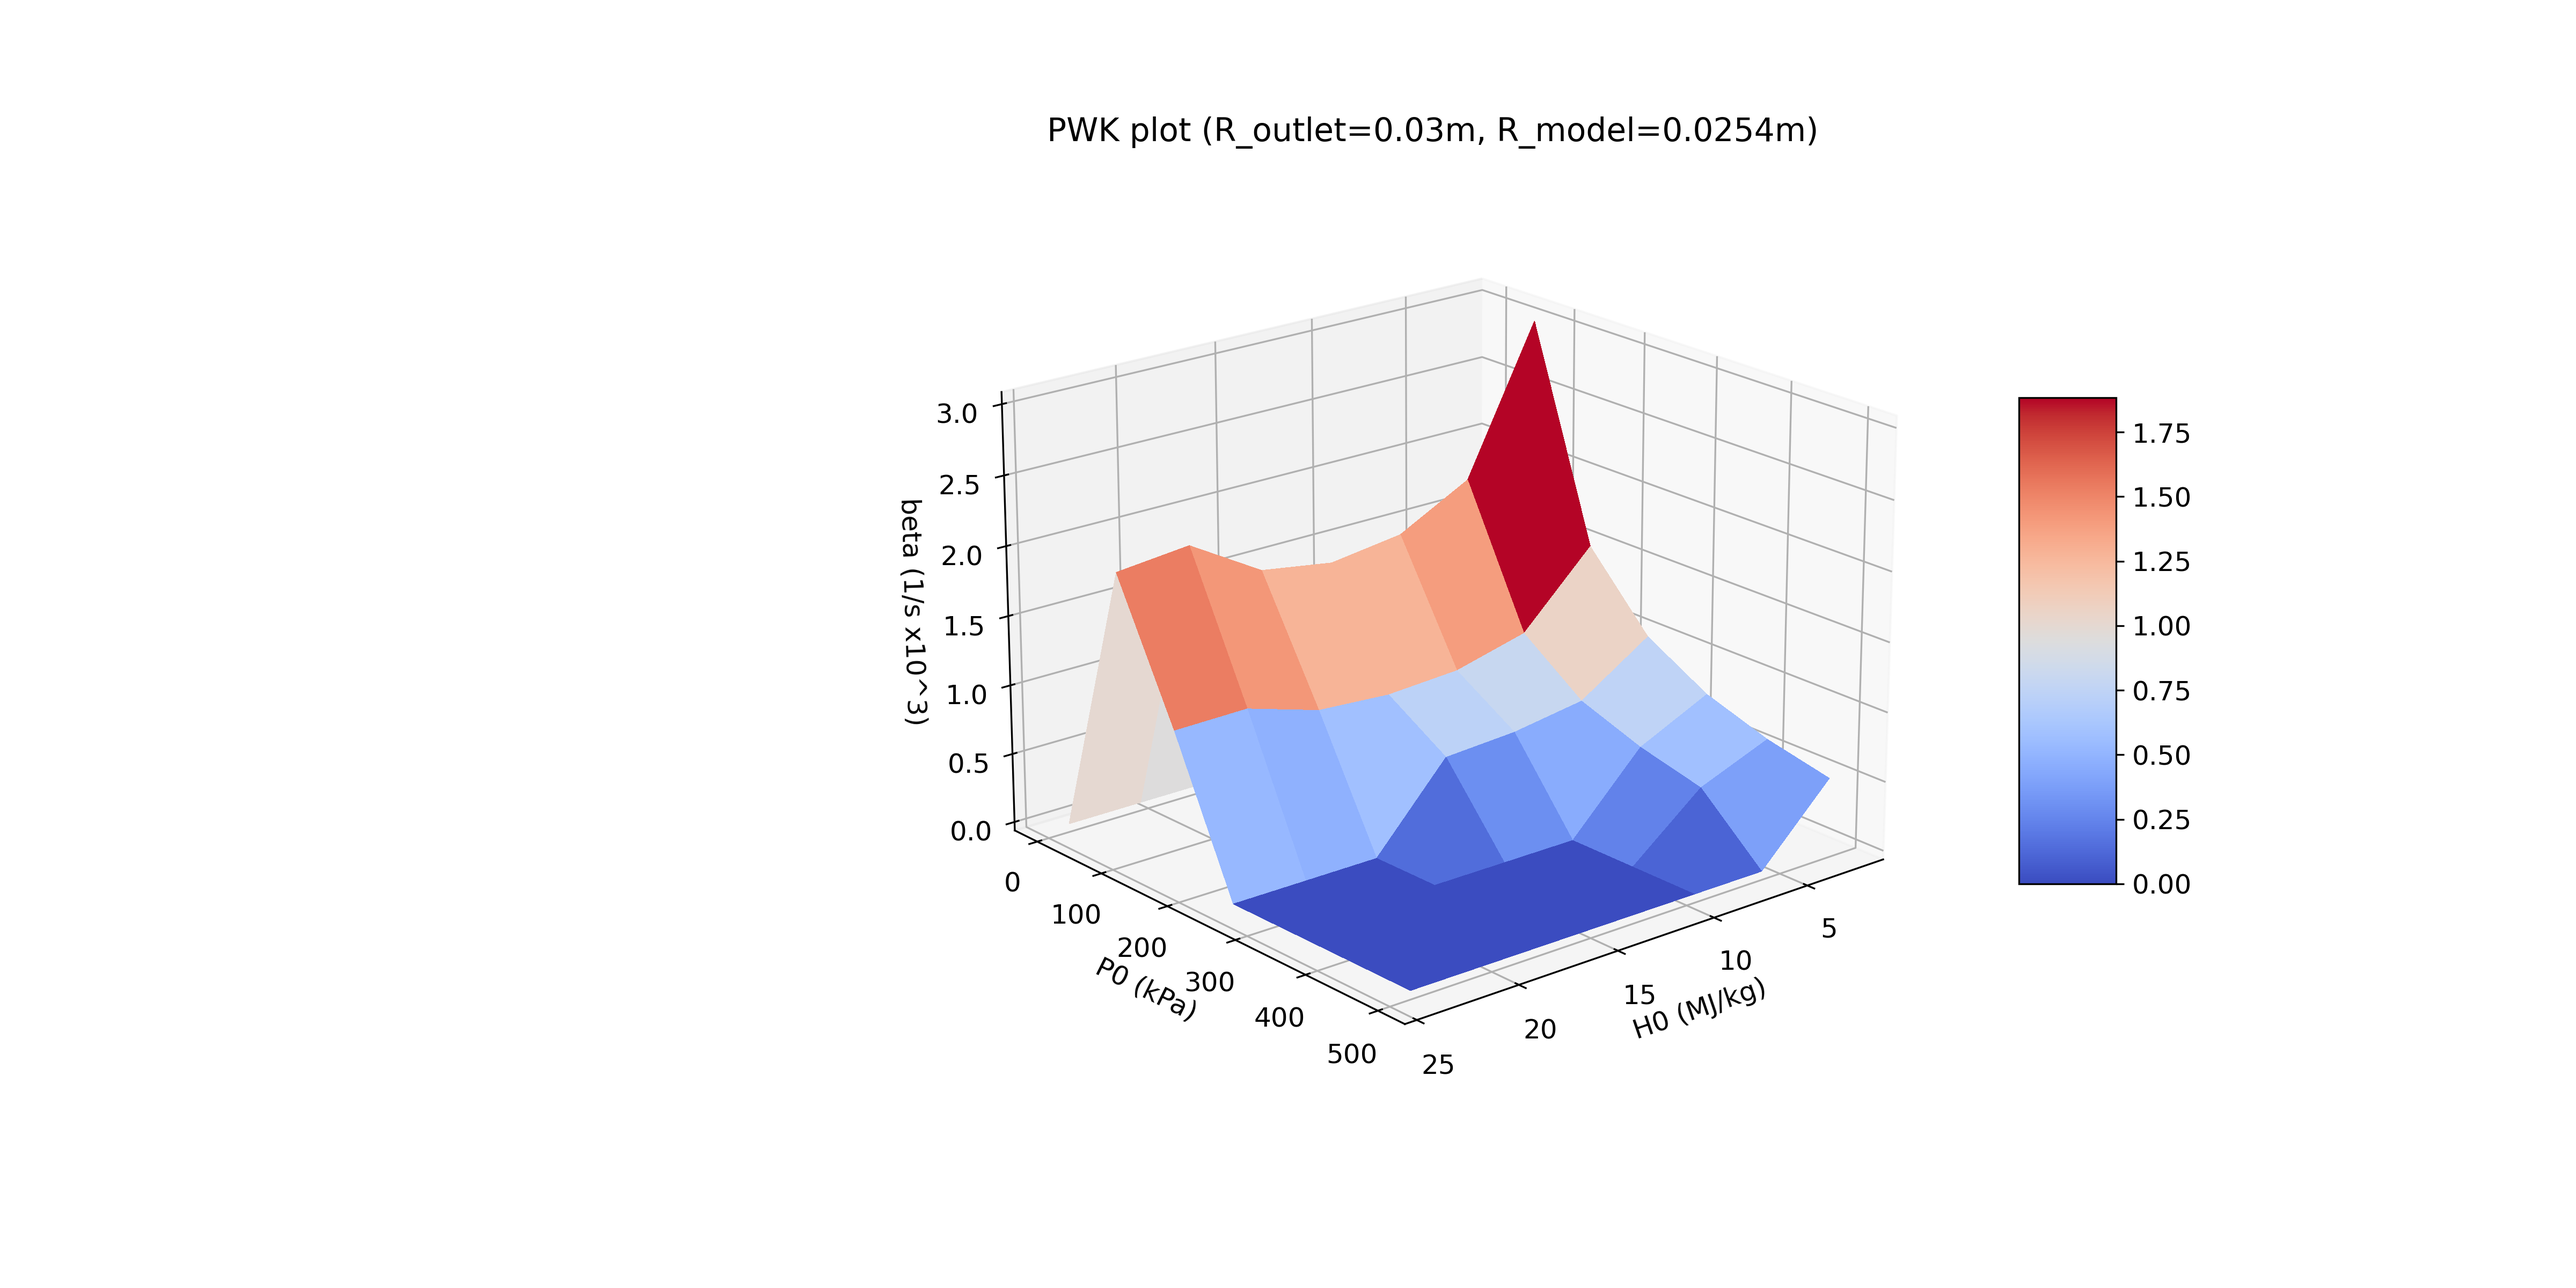
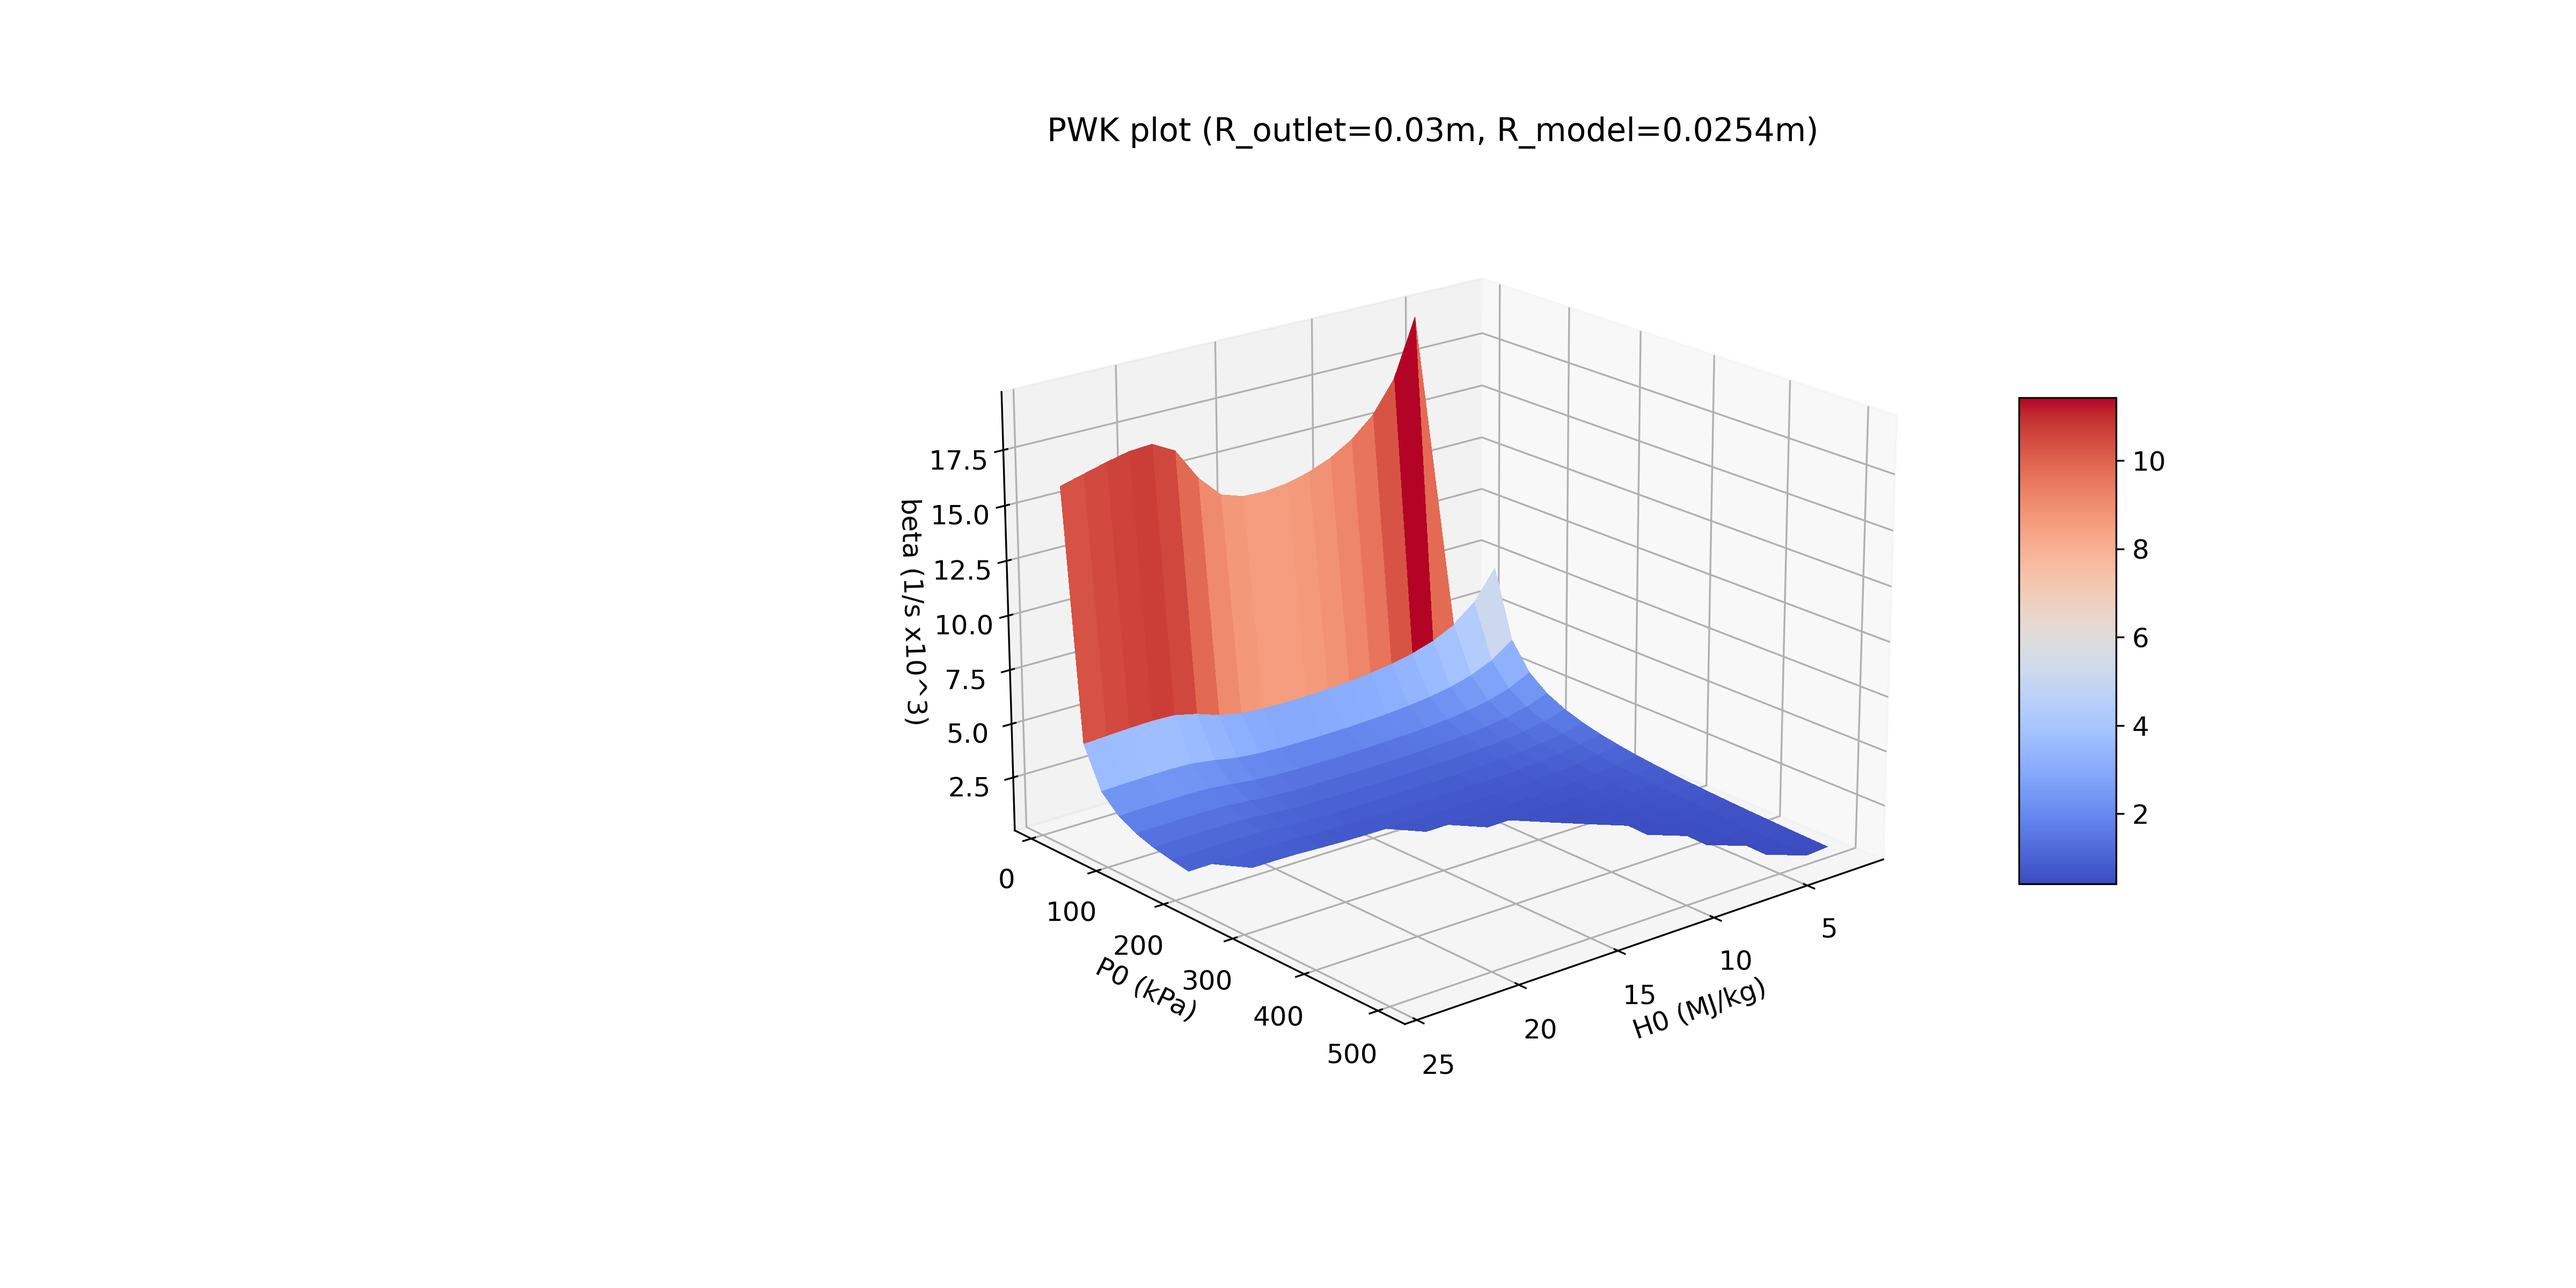
backup smooth interpolation

diff --git a/sub&supersonic_nozzle.py b/sub&supersonic_nozzle.py
@@ -11,6 +11,7 @@ import numpy as np
 import cantera as ct
 import sympy as sympy
 import scipy as scipy
+from scipy.interpolate import griddata
 # from mpl_toolkits import Axes3D
 from scipy.interpolate import RectBivariateSpline
 from sympy import symbols, Eq, solve
@@ -221,7 +222,7 @@ def all_in_one_matching(mdot,P_arc,P0,R_jet,R_model):
         print(data)
 
 def nice_wireframe(H_add,P0,beta_square):
-    for iter in range(10):
+    for iter in range(len(beta_square)):
         for i in range(len(H_add)):
             for j in range(len(H_add)):
                 if j == 0:
@@ -244,8 +245,8 @@ def nice_wireframe(H_add,P0,beta_square):
                             H_add[i][j] = 1.001*H_add[i][j-1]
                             P0[i][j] = 1.001*P0[i][j-1]
                             
-                
-   
+    print("nice wireframe test \\\\\\\\\\\\\\\\\\\\\5")            
+    print(H_add)
     print("done")
 
 def beta_curve_PWK(mdot_range,P_arc,P0_range,R_jet,R_model,resolution):
@@ -285,13 +286,13 @@ def beta_curve_PWK(mdot_range,P_arc,P0_range,R_jet,R_model,resolution):
                 beta_square[count1][count2]=beta
 
             except:
-                beta_square[count1][count2]=0
+                beta_square[count1][count2]=np.nan
             number_done = number_done + 1
             print(str(100*number_done/number_of_points)+"% through ground calcs")
     
     P0, mdot =np.meshgrid(P0_linspace,mdot_linspace)
     H_add = (0.5*P_arc/mdot)
-    print(P0)
+
     
     
     
@@ -317,6 +318,14 @@ def beta_curve_PWK(mdot_range,P_arc,P0_range,R_jet,R_model,resolution):
     ax.view_init(20,50)
     plt.title("PWK plot (R_outlet="+str(R_jet)+'m, R_model='+str(R_model)+"m)")
     plt.savefig('test.png', dpi=300)
+    ax.view_init(20,50)
+    plt.savefig('test3.png', dpi=300)
+    ax.view_init(0,0)
+    plt.savefig('test4.png', dpi=300)
+    ax.view_init(0,90)
+    plt.savefig('test5.png', dpi=300)
+    ax.view_init(90,0)
+    plt.savefig('test6.png', dpi=300)
 
     return beta_square, P0, H_add, mdot_linspace, P0_linspace, H_add_linspace
 
@@ -377,7 +386,7 @@ def beta_curve_flight(H0_linspace,P0_linspace,R_flight_vehicle,resolution):
 
     
     fig2 = plt.figure("2",figsize=(10,5))
-    # nice_wireframe(H0,P0,beta_square_flight)
+    nice_wireframe(H0,P0,beta_square_flight)
     ax = plt.axes(projection='3d')
     # ax.plot_wireframe(H_add/(10**6), P0/(10**3), beta_square)
     surf = ax.plot_surface(H0/(10**6), P0/(10**3), beta_square_flight/(10**3), cmap=cm.coolwarm, linewidth=1, antialiased=False, rcount=200, ccount=200)
@@ -394,10 +403,10 @@ def beta_curve_flight(H0_linspace,P0_linspace,R_flight_vehicle,resolution):
 
     return beta_square_flight, P0, H0
 
-def ding():
+def ding(frequency):
     import winsound
-    frequency = 3500  # Set Frequency To 2500 Hertz
-    duration = 100  # Set Duration To 1000 ms == 1 second
+    frequency = frequency  # Set Frequency To 2500 Hertz
+    duration = 500  # Set Duration To 1000 ms == 1 second
     winsound.Beep(frequency, duration)
 
 def compare_beta(resolution):
@@ -481,13 +490,6 @@ def bivariate_interpolation(H0_square,P0_square,beta_square,name):
     # for ii in range(len(beta_square)):
             
     
-
-    
-    
-    
-    
-    
-    
     def Extract(lst):
         return [item[0] for item in lst]
     
@@ -528,22 +530,125 @@ def bivariate_interpolation(H0_square,P0_square,beta_square,name):
     plt.show()
     
 
+def bivariate_interpolation2(H0_square,P0_square,beta_square,name):
+    
+    def Extract(lst):
+        return [item[0] for item in lst]
+    
+    # P0_1d = P0_square[0]
+    # H0_1d = Extract(H0_square)
+    P0_1d = P0_square[0]
+    H0_1d = Extract(H0_square)
+    
+    func =  scipy.interpolate.interp2d(P0_square, H0_square, beta_square, kind='cubic', copy=True, bounds_error=False, fill_value=1)
+    
+    P0_1d_new = np.arange(600,500000,(500000-600)/100)
+    H0_1d_new = np.arange(2.4*10**6,25*10**6, (25*10**6-2.4*10**6)/100)
+    
+    P0_2d_new, H0_2d_new = np.meshgrid(P0_1d_new, H0_1d_new)
+    
+    
+    figB = plt.figure("B",figsize=(10,5))
+    ax = plt.axes(projection='3d')
+    print( func(P0_1d_new,H0_1d_new))
+    surf = ax.plot_surface(H0_2d_new,  P0_2d_new, func(P0_1d_new,H0_1d_new), cmap=cm.coolwarm, linewidth=1, antialiased=False, rcount=200, ccount=200)
+    plt.gcf().set_size_inches(16, 8)
+    ax.set_xlabel("H0 (MJ/kg)")
+    ax.set_ylabel("P0 (kPa)")
+    ax.set_zlabel("beta (1/s x10^3)")
+    figB.colorbar(surf, shrink=0.5, aspect=5)
+    plt.title(name)
+    ax.view_init(20,50)
+    plt.savefig('test3.png', dpi=300)
+    ax.view_init(0,0)
+    plt.savefig('test4.png', dpi=300)
+    ax.view_init(0,90)
+    plt.savefig('test5.png', dpi=300)
+    ax.view_init(90,0)
+    plt.savefig('test6.png', dpi=300)
+    
+    print(P0_square)
+    print(H0_square)
+
+    # grid_z = griddata(beta_square, (H0_square, P0_square), method = 'cubic')
+    # ax = plt.axes(projection='3d')
+    # surf = ax.plot_surface(H0_square,  P0_square, grid_interp, cmap=cm.coolwarm, linewidth=1, antialiased=False, rcount=200, ccount=200)
+    # plt.gcf().set_size_inches(16, 8)
+    # ax.set_xlabel("H0 (MJ/kg)")
+    # ax.set_ylabel("P0 (kPa)")
+    # ax.set_zlabel("beta (1/s x10^3)")
+    # plt.title(name)
+    
+def griddata_stack_solution(H0_square,P0_square,beta_square,name):
+    # ref https://stackoverflow.com/questions/34408293/2-d-interpolation-ignoring-nan-values
+    x =   P0_square
+    y =  H0_square
+    z = beta_square
+    
+    x=x.ravel()              #Flat input into 1d vector
+    x=list(x[x!=np.isnan])   #eliminate any NaN
+    y=y.ravel()
+    y=list(y[y!=np.isnan])
+    z=z.ravel()
+    z=list(z[z!=np.isnan])
+       
+    xnew = np.arange(600,500000,(500000-600)/1000)
+    ynew = np.arange(2.4*10**6,25*10**6, (25*10**6-2.4*10**6)/1000)
+    znew = griddata((x, y), z, (xnew[None,:], ynew[:,None]), method='linear')
+
+    
+    figC = plt.figure("C")
+    levels = np.linspace(500, max(z), 15)
+    plt.ylabel('Y', size=15)
+    plt.xlabel('X', size=15)
+    cs = plt.contourf(xnew, ynew, znew, levels=levels, cmap=cm.coolwarm)
+    cbar = plt.colorbar(cs)
+    # cbar.set_label('Z', rotation=90, fontsize=15) # gas fraction
+    plt.show()
+    
+    figD = plt.figure("D")
+    ax = plt.axes(projection='3d')
+
+    X_new, Y_new = np.meshgrid(xnew,ynew)
+
+    surf = ax.plot_surface(X_new/1000,  Y_new/(10**6), znew/1000, cmap=cm.coolwarm, linewidth=1, antialiased=False, rcount=200, ccount=200)
+    ax.set_xlabel("P0 (kPa)")
+    ax.set_ylabel("H0 (MJ/kg)")
+    ax.set_zlabel("beta (1/s x10^3)")
+    figD.colorbar(surf, shrink=0.5, aspect=5)
+    plt.title(name)
+    ax.view_init(20,50)
+    plt.savefig('test3.png', dpi=300)
+    ax.view_init(0,0)
+    plt.savefig('test4.png', dpi=300)
+    ax.view_init(0,90)
+    plt.savefig('test5.png', dpi=300)
+    ax.view_init(90,0)
+    plt.savefig('test6.png', dpi=300)
+
 
 if __name__ == "__main__":
-    print(__doc__)
-    #all_in_one_matching(mdot = 0.5, P_arc = 240*10**3, P0=1*10**3, R_jet=0.5, R_model=0.0245)
-    
-    # uncomment for matching surfaces
-    beta_square_PWK, H0_grid_PWK, P0_grid_PWK, beta_square_flight, H0_grid_flight, P0_grid_flight = compare_beta(resolution=7)
-    
-    
-    
-    
-    #interpolation_of_beta_curve(beta_square_PWK, H0_grid_PWK, P0_grid_PWK, beta_square_flight, H0_grid_flight, P0_grid_flight)
-    
-    # beta_square_PWK, P0_grid_PWK, H0_grid_PWK, mdot_linspace, P0_linspace, H_add_linspace = beta_curve_PWK(mdot_range=[0.005,0.05], P_arc = 240*10**3, P0_range=[600,500*10**3], R_jet = 0.03, R_model = 0.0254, resolution=10)
-    
-    bivariate_interpolation(H0_grid_PWK,P0_grid_PWK,beta_square_PWK,"PWK")
-    bivariate_interpolation(H0_grid_flight,P0_grid_flight,beta_square_flight,"flight")
-    ding()
+    # try:
+        print(__doc__)
+        #all_in_one_matching(mdot = 0.5, P_arc = 240*10**3, P0=1*10**3, R_jet=0.5, R_model=0.0245)
+        
+        # uncomment for matching surfaces
+        # beta_square_PWK, H0_grid_PWK, P0_grid_PWK, beta_square_flight, H0_grid_flight, P0_grid_flight = compare_beta(resolution=7)
+        # figA = plt.figure("A",figsize=(10,5))
+        beta_square_PWK, P0_grid_PWK, H0_grid_PWK, mdot_linspace, P0_linspace, H_add_linspace = beta_curve_PWK(mdot_range=[0.005,0.05], P_arc = 240*10**3, P0_range=[10000,500*10**3], R_jet = 0.03, R_model = 0.0254, resolution=20)
+        # ax = plt.axes(projection='3d')
+        # surf = ax.plot_surface(H0_grid_PWK/(10**6), P0_grid_PWK/(10**3), beta_square_PWK/(10**3), cmap=cm.coolwarm, linewidth=1, antialiased=False, rcount=200, ccount=200)
+        # plt.show()
+        #interpolation_of_beta_curve(beta_square_PWK, H0_grid_PWK, P0_grid_PWK, beta_square_flight, H0_grid_flight, P0_grid_flight)
+        
+        # beta_square_PWK, P0_grid_PWK, H0_grid_PWK, mdot_linspace, P0_linspace, H_add_linspace = beta_curve_PWK(mdot_range=[0.005,0.05], P_arc = 240*10**3, P0_range=[600,500*10**3], R_jet = 0.03, R_model = 0.0254, resolution=10)
+        # bivariate_interpolation2(H0_grid_PWK,P0_grid_PWK,beta_square_PWK,"PWK interpolation")
+        griddata_stack_solution(H0_grid_PWK,P0_grid_PWK,beta_square_PWK,"PWK interpolation")
+        # bivariate_interpolation(H0_grid_PWK,P0_grid_PWK,beta_square_PWK,"PWK")
+        # bivariate_interpolation(H0_grid_flight,P0_grid_flight,beta_square_flight,"flight")
+        
+        ding(2000)
+        
+    # except:
+    #     ding(200)
 
